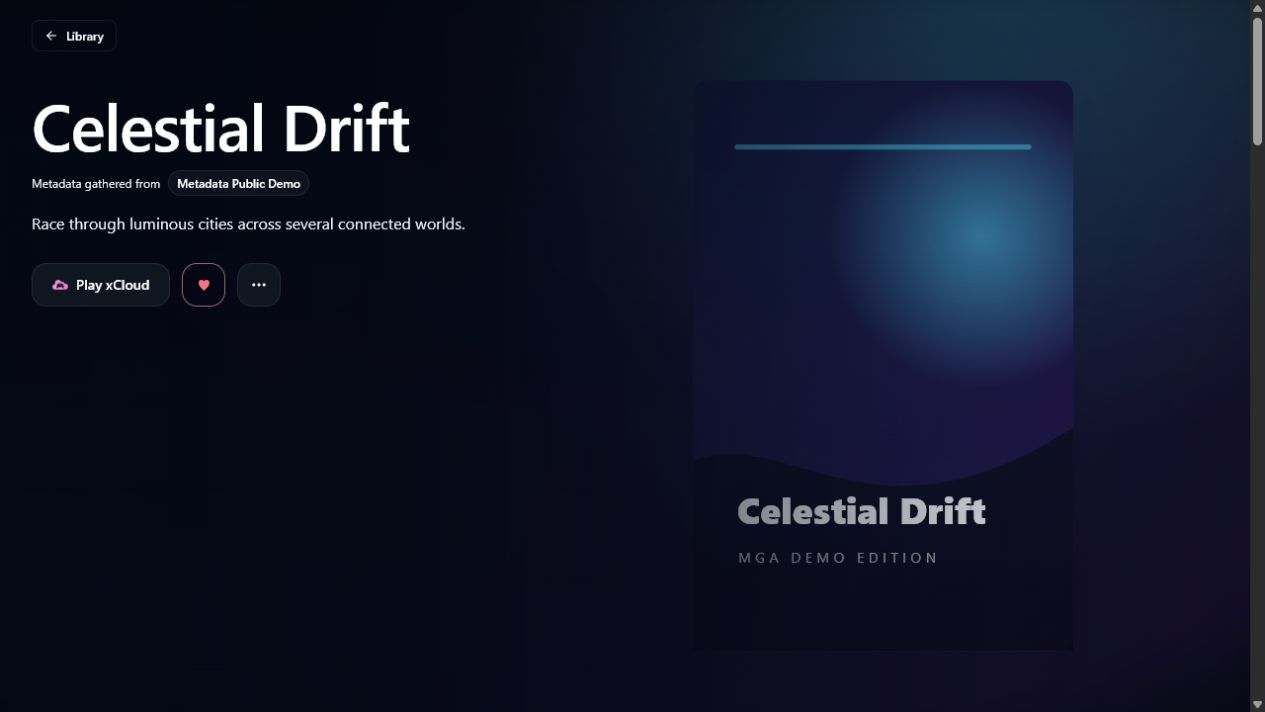
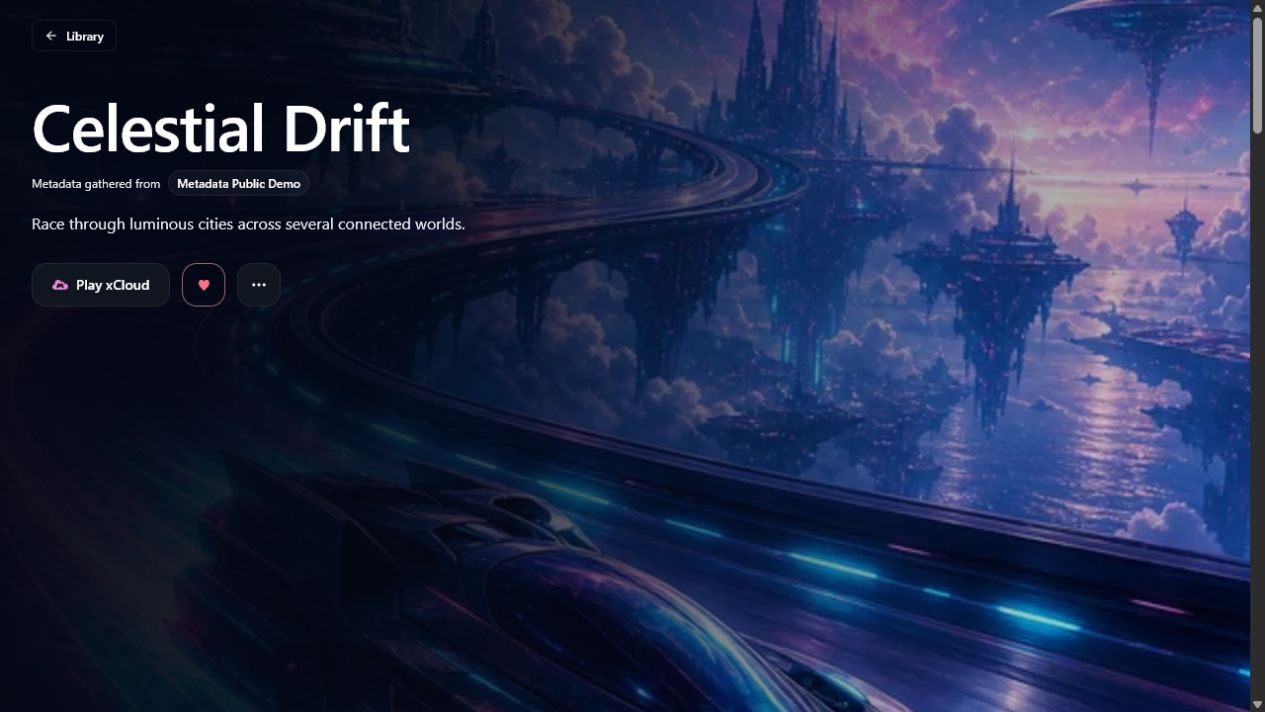
docs: publish current privacy-safe MGA screenshots (MGA-44)

diff --git a/docs/screenshots.html b/docs/screenshots.html
@@ -24,31 +24,25 @@
           <p class="section__intro">These images come from the current MGA build using a separate demo player and no personal accounts or credentials. Select any image to open it at full size.</p>
           <div class="gallery proof-grid">
             <figure class="shot">
-              <a href="./screenshots/library-current.png" target="_blank" rel="noopener" aria-label="Open the MGA Library screenshot at full size">
-                <img src="./screenshots/library-current.png" alt="MGA showing a privacy-safe demo library with favorites and several game sources" />
+              <a href="./screenshots/library-current.png?v=cb4018b8" target="_blank" rel="noopener" aria-label="Open the MGA Library screenshot at full size">
+                <img src="./screenshots/library-current.png?v=cb4018b8" alt="MGA showing a privacy-safe demo library with favorites and several game sources" />
               </a>
-              <figcaption>Browse every game together, then sort, group, or jump into a favorite whenever you like.</figcaption>
+              <figcaption>Browse every game together, then sort, group, or jump into a favorite whenever you like.<span class="shot__meta">Captured 28 July 2026 · build cb4018b8 · fictional demo library</span></figcaption>
             </figure>
             <figure class="shot">
-              <a href="./screenshots/play-current.png" target="_blank" rel="noopener" aria-label="Open the MGA Play screenshot at full size">
-                <img src="./screenshots/play-current.png" alt="The MGA Play page showing favorites plus browser and cloud-ready choices while no Client is connected" />
+              <a href="./screenshots/game-current.png?v=cb4018b8" target="_blank" rel="noopener" aria-label="Open the MGA game screenshot at full size">
+                <img src="./screenshots/game-current.png?v=cb4018b8" alt="The MGA game page showing original Celestial Drift artwork, game details, and the Play xCloud action" />
               </a>
-              <figcaption>Play keeps installed games separate from browser and cloud-ready choices, and clearly shows when the Client is not connected.</figcaption>
+              <figcaption>Each game page leads with its artwork, the next action, and the details you care about.<span class="shot__meta">Captured 28 July 2026 · build cb4018b8 · fictional demo game</span></figcaption>
             </figure>
             <figure class="shot">
-              <a href="./screenshots/game-current.png" target="_blank" rel="noopener" aria-label="Open the MGA game screenshot at full size">
-                <img src="./screenshots/game-current.png" alt="The MGA game page showing Hades artwork, game details, and the main Play action" />
+              <a href="./screenshots/game-copies-current.png?v=cb4018b8" target="_blank" rel="noopener" aria-label="Open the MGA play choices screenshot at full size">
+                <img src="./screenshots/game-copies-current.png?v=cb4018b8" alt="The MGA game page showing separate Steam and Xbox copies, their player, save handling, and connection actions" />
               </a>
-              <figcaption>Each game page leads with its artwork, the next action, and the details you care about.</figcaption>
-            </figure>
-            <figure class="shot">
-              <a href="./screenshots/game-copies-current.png" target="_blank" rel="noopener" aria-label="Open the MGA play choices screenshot at full size">
-                <img src="./screenshots/game-copies-current.png" alt="The MGA game page showing Steam, Xbox, xCloud, Game Pass, achievements, and save choices" />
-              </a>
-              <figcaption>Every store version and way to play stays clear, including which achievements and saves go with it.</figcaption>
+              <figcaption>Every store version and way to play stays clear, including which player, achievements, and saves go with it.<span class="shot__meta">Captured 28 July 2026 · build cb4018b8 · two independent game copies</span></figcaption>
             </figure>
           </div>
-          <p class="note">The repeatable fixture lives in <a href="https://github.com/GreenFuze/MyGamesAnywhere/tree/main/server/cmd/publicdemo"><code>server/cmd/publicdemo</code></a>. Older screenshots remain in repository history, not in the current public gallery.</p>
+          <p class="note">The repeatable fixture lives in <a href="https://github.com/GreenFuze/MyGamesAnywhere/tree/main/server/cmd/publicdemo"><code>server/cmd/publicdemo</code></a>, with capture evidence beside the images. A current Play-page diagnostic is intentionally withheld from this gallery until <a href="https://greenfuzer.atlassian.net/browse/MGA-71">MGA-71</a> can prove the running Client handoff. Older screenshots remain in repository history, not in the current public gallery.</p>
         </div>
       </section>
     </main>

diff --git a/docs/site.css b/docs/site.css
@@ -277,6 +277,15 @@ table {
   padding: 1rem 1rem 1.1rem;
 }
 
+.shot__meta {
+  display: block;
+  margin-top: 0.45rem;
+  color: rgba(236, 242, 255, 0.52);
+  font-size: 0.78rem;
+  font-weight: 700;
+  letter-spacing: 0.02em;
+}
+
 .section {
   padding-top: clamp(3.5rem, 7vw, 6.5rem);
   padding-bottom: clamp(3.5rem, 7vw, 6.5rem);

diff --git a/docs/screenshots/README.md b/docs/screenshots/README.md
@@ -1,0 +1,55 @@
+# Current screenshot evidence
+
+The `*-current.png` files are the current MGA-44 capture set. They were captured
+on 28 July 2026 from source commit `cb4018b8` using the isolated
+`server/cmd/publicdemo` fixture. The Library, game hero, and copies/files images
+are published in the public gallery.
+
+The fixture contains one fictional player, eight fictional games, and original
+privacy-safe artwork committed with the generator. It contains no personal
+accounts, real connection credentials, or commercial game art. The fixture
+never fakes Client or installed-game state.
+
+The current Play image is diagnostic evidence, not a public marketing image. It
+shows a real device/user grant but a disconnected Client because a second
+`mga://` invocation is stopped by the single-instance mutex before forwarding
+the request. That behavior is tracked by MGA-71. The image remains out of the
+gallery until a packaged Client proves the handoff and shows the connected
+state honestly.
+
+Verification before capture:
+
+```text
+go test ./cmd/publicdemo
+go test ./...
+npm run test:unit
+npm run build
+git diff --check
+```
+
+Capture surfaces:
+
+- `library-current.png`: library shelves, game artwork, source/play/save badges.
+- `play-current.png`: current Play diagnostic, intentionally withheld from the
+  public gallery pending MGA-71.
+- `game-current.png`: game hero and primary play route.
+- `game-copies-current.png`: two independent store copies, player ownership,
+  save handling, and connection actions.
+
+The Library image is cropped only above the page navigation so the public image
+focuses on the library and does not advertise a disconnected Client state that
+is unrelated to the library proof. No product content, status, or game data was
+altered.
+
+SHA-256:
+
+```text
+630C1D21FE471A7477E77DEF71F7075A4025126770263CA19CF530A7D5442E1E  library-current.png
+BAA9C3AD0EB3491D540768A09C27F780DB50ADCA853C6C57B51A40C9472D975F  play-current.png
+319ACA6E6740A7B090D5E9C324B94073186529DC772867866934ACD3CBD1D226  game-current.png
+85BEDBCEE36D943DAB8AAD83C024072683E65ADA851DC6D20BD5C3FD1421586D  game-copies-current.png
+```
+
+`NO_MIGRATION_NEEDED`: these files are static public evidence and fixture-only
+artwork. They do not change production persistence, configuration, identity, or
+protocol behavior.
